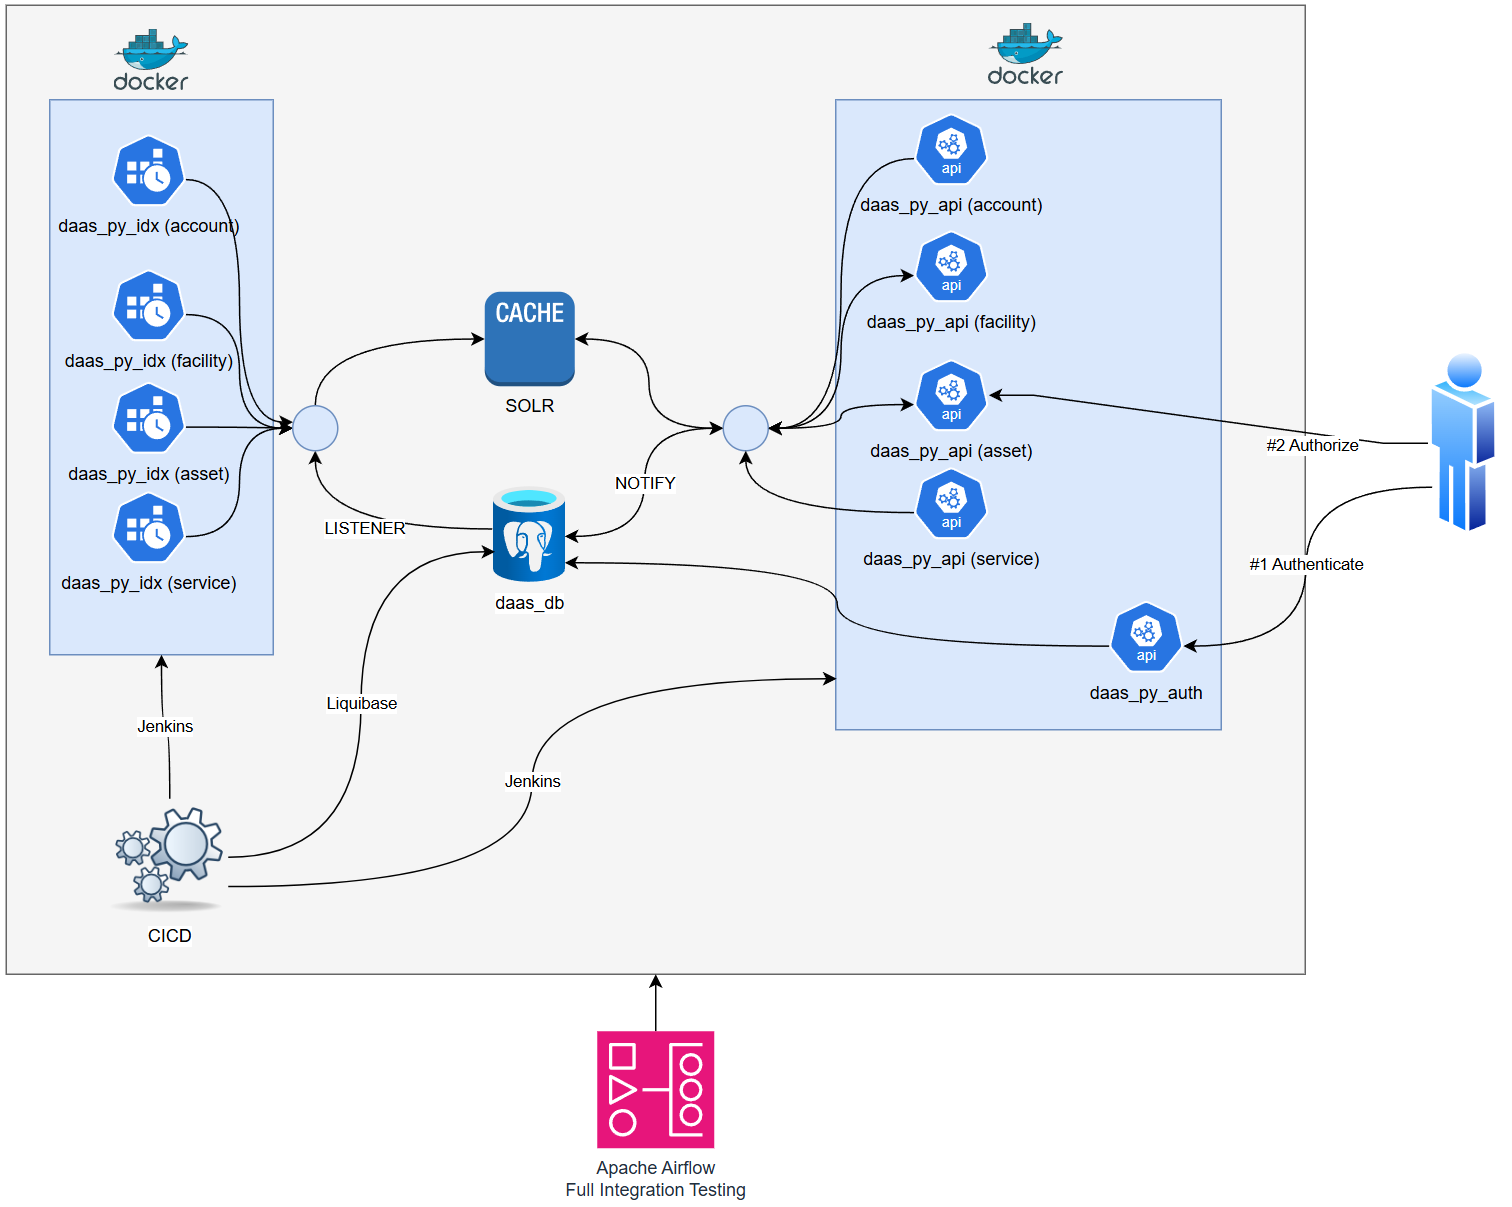
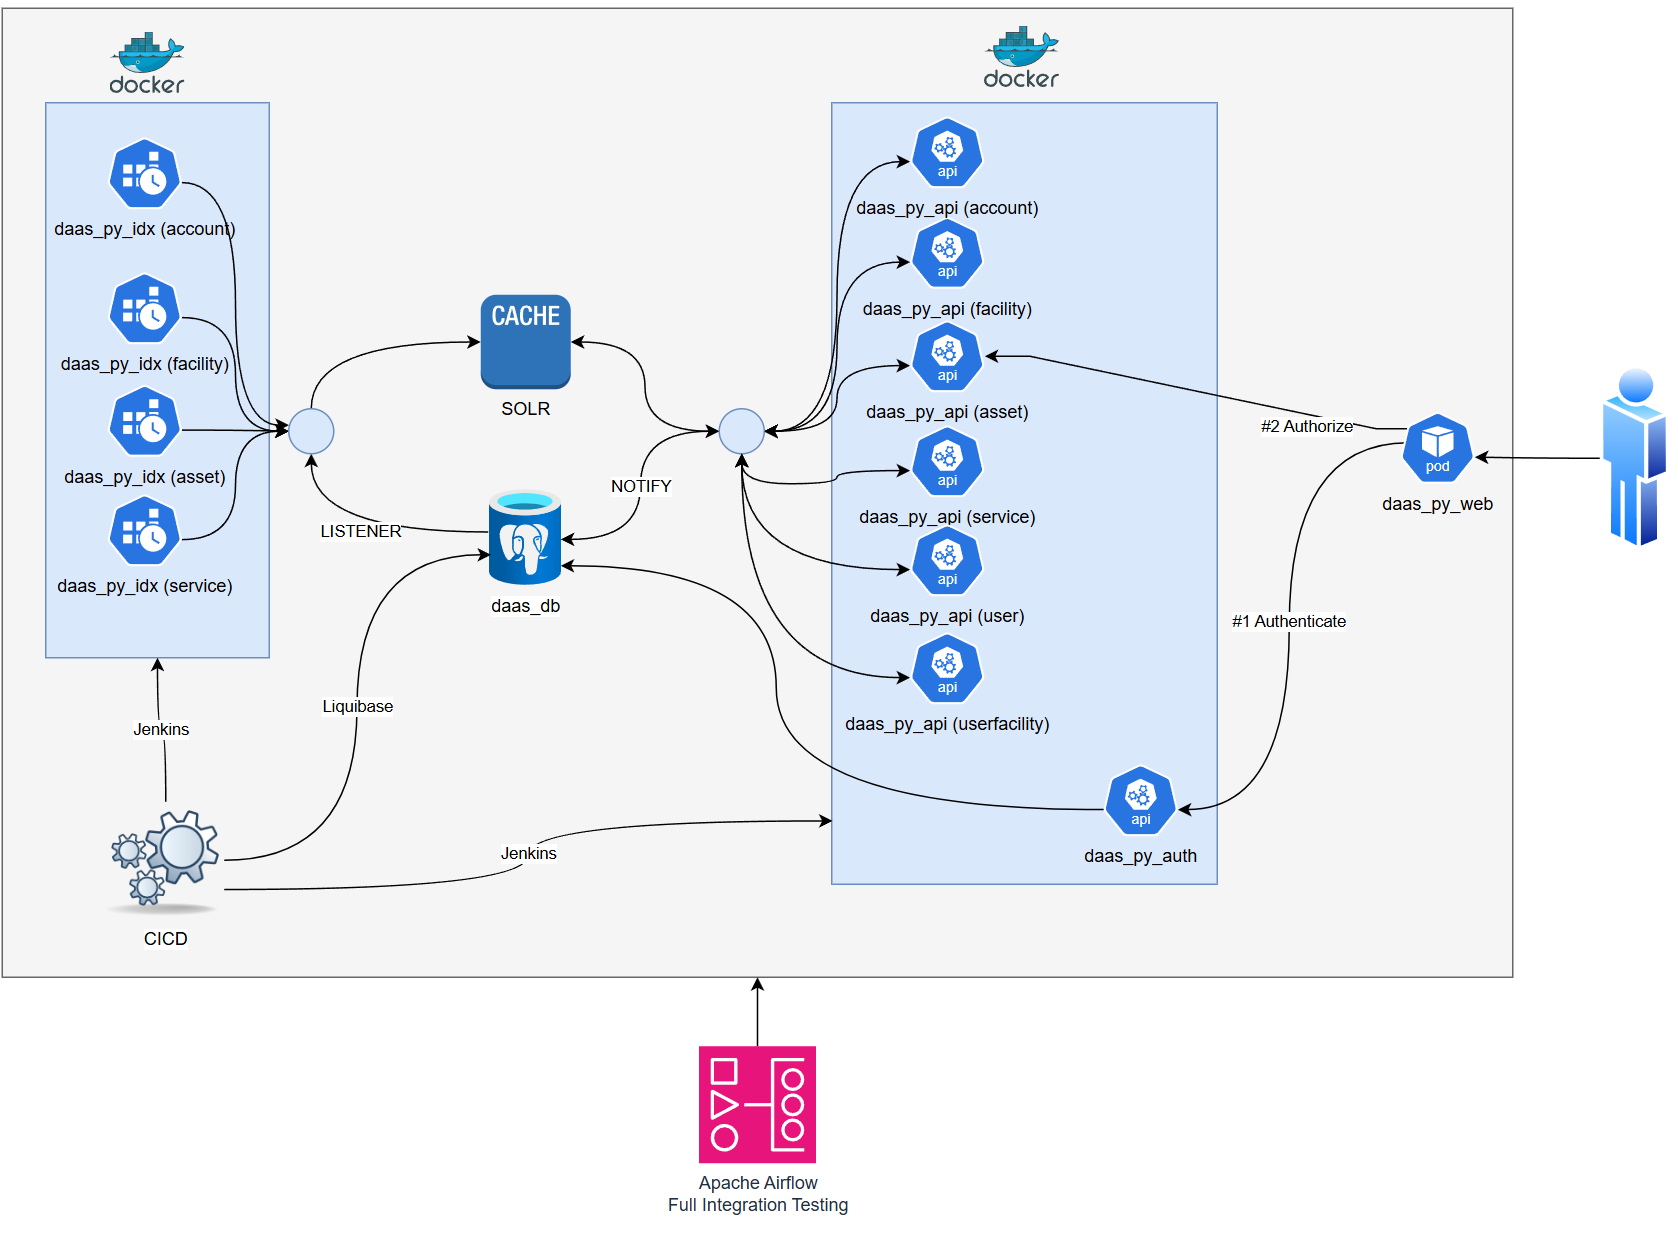
updates.

diff --git a/README.md b/README.md
@@ -68,7 +68,7 @@ Secrets: dynaconf/cryptography
 
 ### [daas_py_api](https://github.com/nealrout/daas_py_api) - Django Generic API (Main)
 
-### [daas_py_idx](https://github.com/nealrout/daas_py_idx) - Generic Index manager - (Main).
+### [daas_py_idx](https://github.com/nealrout/daas_py_idx) - Generic Index manager - (Main)
 
 ### [daas_py_common](https://github.com/nealrout/daas_py_common) - Common Utils
 
@@ -79,6 +79,8 @@ Secrets: dynaconf/cryptography
 ### [daas_build](https://github.com/nealrout/daas_build) - Docker and other build/deploy stuff
 
 ### [daas_airflow](https://github.com/nealrout/daas_airflow) - Apache Airflow for integration testing
+
+### [daas_py_web](https://github.com/nealrout/daas_py_web) - Web application using platform
 
 ## Architecture
 ![My Project Logo](daas_arch_high.png)
